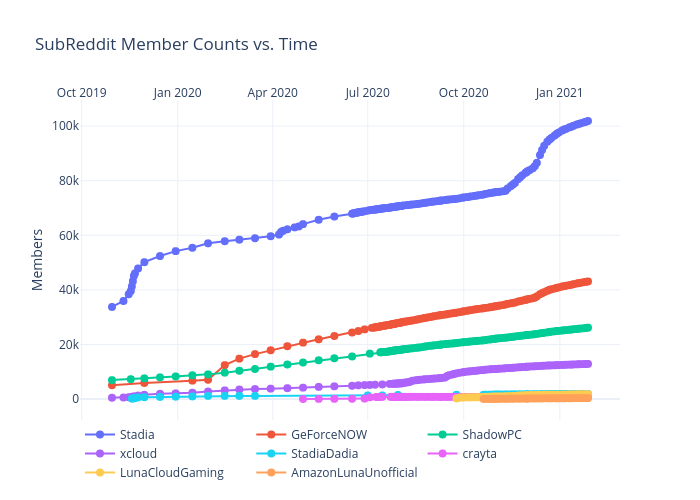
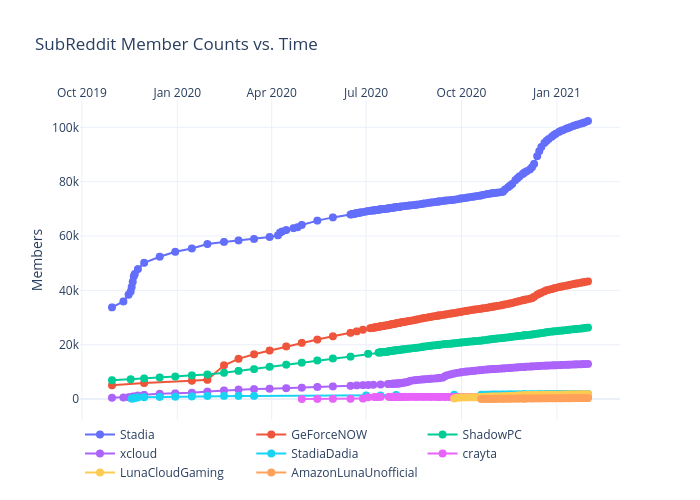
Add files via upload

diff --git a/reddit/figure.js b/reddit/figure.js
@@ -318,7 +318,8 @@ var figure = {
                 "101025",
                 "101351",
                 "101574",
-                "101868"
+                "101868",
+                "102336"
             ],
             "marker": {
                 "size": 8
@@ -645,7 +646,8 @@ var figure = {
                 "42605",
                 "42817",
                 "42953",
-                "43099"
+                "43099",
+                "43307"
             ],
             "marker": {
                 "size": 8
@@ -972,7 +974,8 @@ var figure = {
                 "25847",
                 "25948",
                 "26021",
-                "26179"
+                "26179",
+                "26311"
             ],
             "marker": {
                 "size": 8
@@ -1299,7 +1302,8 @@ var figure = {
                 "12796",
                 "12822",
                 "12849",
-                "12885"
+                "12885",
+                "12932"
             ],
             "marker": {
                 "size": 8
@@ -1626,7 +1630,8 @@ var figure = {
                 "1890",
                 "1894",
                 "1897",
-                "1902"
+                "1902",
+                "1906"
             ],
             "marker": {
                 "size": 8
@@ -1953,7 +1958,8 @@ var figure = {
                 "825",
                 "826",
                 "827",
-                "829"
+                "829",
+                "833"
             ],
             "marker": {
                 "size": 8
@@ -2280,7 +2286,8 @@ var figure = {
                 "1749",
                 "1762",
                 "1774",
-                "1803"
+                "1803",
+                "1828"
             ],
             "marker": {
                 "size": 8
@@ -2607,7 +2614,8 @@ var figure = {
                 "343",
                 "347",
                 "351",
-                "362"
+                "362",
+                "366"
             ],
             "marker": {
                 "size": 8
@@ -2625,8 +2633,8 @@ var figure = {
             "side": "top",
             "type": "date",
             "range": [
-                "2019-10-01 19:20:17.6172",
-                "2021-02-25 04:39:42.3828"
+                "2019-10-01 14:53:11.4173",
+                "2021-02-28 09:06:48.5827"
             ],
             "title": {
                 "text": ""
@@ -2636,8 +2644,8 @@ var figure = {
         "yaxis": {
             "type": "linear",
             "range": [
-                -7253.49510509646,
-                109154.49510509646
+                -7286.981428160093,
+                109655.9814281601
             ],
             "title": {
                 "text": "Members"
